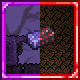
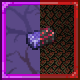
V3.1
v3.1
Pre-major update

-removed pickaxe axe crafting nerf
-heart of life placeholder sprite replaced with new sprite
and new tooltip
-added pickaxe axe to book of nerfs and book of nerfs melee
-tweaked mod icon
-added new tile corrupted anvil doesnt have any use currently until 1.3.6 (added to config to beta feature"DefaltBossOrbHeartSpawn")

diff --git a/NPCs/ItemsBuffsGlobalNPC.cs b/NPCs/ItemsBuffsGlobalNPC.cs
@@ -1,0 +1,30 @@
+using Microsoft.Xna.Framework;
+using Terraria;
+using Terraria.ID;
+using Terraria.ModLoader;
+
+namespace ItemsBuffs.NPCs
+{
+    public class ItemsBuffsGlobalNPC : GlobalNPC
+    {
+        public override void NPCLoot(NPC npc)
+        {
+         //   if (Main.rand.Next(10) == 0)
+            {
+                if (npc.type == NPCID.BrainofCthulhu & Config.DefaltBossOrbHeartSpawn)
+                {
+                    if (Main.rand.NextFloat() < 100.00f) // 50.00% chance
+                        Item.NewItem((int)npc.position.X, (int)npc.position.Y, npc.width, npc.height, mod.ItemType("CorruptedAnvil"), Main.rand.Next(1, 1));
+                }
+                if (npc.type == 13 & Config.DefaltBossOrbHeartSpawn)
+                {
+                    if (Main.rand.NextFloat() < 100.00f) // 50.00% chance
+                        Item.NewItem((int)npc.position.X, (int)npc.position.Y, npc.width, npc.height, mod.ItemType("CorruptedAnvil"), Main.rand.Next(1, 1));
+                    // Item.NewItem((int)npc.position.X, (int)npc.position.Y, npc.width, npc.height, (ItemID.TruffleWorm));
+                }
+            }
+        }
+    }
+}
+//   if (Main.rand.NextFloat() < 100.00f) // 50.00% chance
+//Item.NewItem(npc.getRect(), ItemID.TruffleWorm, 1);

diff --git a/Tiles/CorruptedAnvil.cs b/Tiles/CorruptedAnvil.cs
@@ -1,0 +1,40 @@
+using System;
+using Microsoft.Xna.Framework;
+using Microsoft.Xna.Framework.Graphics;
+using Terraria;
+using Terraria.ID;
+using Terraria.ModLoader;
+using Terraria.ObjectData;
+
+namespace ItemsBuffs.Tiles
+{
+	public class CorruptedAnvil : ModTile
+	{
+		public override void SetDefaults()
+		{
+			Main.tileFrameImportant[Type] = true;
+			Main.tileSolidTop[Type] = true;
+			Main.tileNoAttach[Type] = true;
+			Main.tileObsidianKill[Type] = true;
+			TileObjectData.newTile.CopyFrom(TileObjectData.Style2x1);
+			TileObjectData.newTile.DrawYOffset = 2;
+			TileObjectData.newTile.LavaDeath = false;
+			TileObjectData.addTile(Type);
+			dustType = 128;
+			adjTiles = new int[] { TileID.Anvils};
+			ModTranslation name = CreateMapEntryName();
+			name.SetDefault("Corrupted Anvil");
+			AddMapEntry(new Color(204, 0, 153), name);
+		}
+
+		public override void KillMultiTile(int i, int j, int frameX, int frameY)
+		{
+			Item.NewItem(i * 16, j * 16, 32, 16, mod.ItemType("CorruptedAnvil"));
+		}
+
+		public override void SetDrawPositions(int i, int j, ref int width, ref int offsetY, ref int height)
+		{
+			offsetY = 2;
+		}
+	}
+}

diff --git a/ItemsBuffs.cs b/ItemsBuffs.cs
@@ -73,6 +73,24 @@ namespace ItemsBuffs
             recipe.AddIngredient(null, "ThrowBook");
             recipe.SetResult(ItemType<Items.Books.AllNerfsList>());
             recipe.AddRecipe();
+
+            recipe = new ModRecipe(this);
+            recipe.AddIngredient(1225, 18);
+            recipe.AddTile(134);
+            recipe.SetResult(990, 1);
+            recipe.AddRecipe();
+
+            recipe = new ModRecipe(this);
+            recipe.AddIngredient(null, "HeartofLife", 15);
+            recipe.AddTile(null, "CorruptedAnvil");
+            recipe.SetResult(ItemID.WormFood, 1);
+            recipe.AddRecipe();
+
+            recipe = new ModRecipe(this);
+            recipe.AddIngredient(null, "HeartofLife", 15);
+            recipe.AddTile(null, "CorruptedAnvil");
+            recipe.SetResult(ItemID.BloodySpine, 1);
+            recipe.AddRecipe();
         }
     }
 }

diff --git a/Items/Books/AllNerfsList.cs b/Items/Books/AllNerfsList.cs
@@ -20,7 +20,7 @@ namespace ItemsBuffs.Items.Books
              "Golden Shower, Heat Ray, Hornet Staff, Chlorophyte Bulllet, Imp Staff, Iron Hammer\n" +
              "Leaf Blower,Magic Missile, Medusa Head, Molotow Cocktail\n" +
              "Molten Pickaxe, Muramasa, Nebula Arcanum, Nightmare Pickaxe, North Pole, Phantasm\n" +
-             "Phoenix Blaster, Poisoned Knife, Poison Staff, Possessed Hatchet\n" +
+             "Phoenix Blaster, Poisoned Knife,Pickaxe Axe, Poison Staff, Possessed Hatchet\n" +
              "Rainbow Rod, Rod of Discord, Razorpine, Reds Throw\n" +
              "Shadowbeam Staff, Slime Staff, Spectre Hood, Staff of Regrowth, Star Canon, Stardust Dragon staff, Sunfury\n" +
              "StarFury, Unholy Trident, Valkyrie Yoyo, Vampire Knifes, Vilethorn, Vortex Beater\n" +

diff --git a/Items/Placeable/CorruptedAnvil.cs b/Items/Placeable/CorruptedAnvil.cs
@@ -1,0 +1,36 @@
+using System;
+using Terraria;
+using Terraria.ID;
+using Terraria.ModLoader;
+
+namespace ItemsBuffs.Items.Placeable
+{
+	public class CorruptedAnvil : ModItem
+	{
+		public override void SetStaticDefaults()
+		{
+			Tooltip.SetDefault("Used to extract essence of Heart of life");
+		}
+
+		public override void SetDefaults()
+		{
+			item.width = 28;
+			item.height = 14;
+			item.maxStack = 999999999;
+			item.useTurn = true;
+			item.autoReuse = true;
+			item.useAnimation = 15;
+			item.useTime = 10;
+			item.useStyle = 1;
+			item.consumable = true;
+			item.rare = 11;
+			item.value = Item.sellPrice(0, 0, 0, 0);
+			item.createTile = mod.TileType("CorruptedAnvil");
+		}
+
+		public override void AddRecipes()
+		{
+
+		}
+	}
+}

diff --git a/Items/Tools/HeartofLife.cs b/Items/Tools/HeartofLife.cs
@@ -12,8 +12,7 @@ namespace ItemsBuffs.Items.Tools
 		public override void SetStaticDefaults()
 		{
             DisplayName.SetDefault("Heart of Life");
-            Tooltip.SetDefault("it pulse with depression and hope" +
-                "n/ currently dont have use until 1.3.6 will arrive");
+            Tooltip.SetDefault("no matter how it pulse, one day it will end");
            // Main.RegisterItemAnimation(item.type, new DrawAnimationVertical(5, 4));
       //      ItemID.Sets.AnimatesAsSoul[item.type] = true;
           ItemID.Sets.ItemIconPulse[item.type] = true;

diff --git a/Items/Books/SolarBook.cs b/Items/Books/SolarBook.cs
@@ -17,7 +17,7 @@ namespace ItemsBuffs.Items.Books
              "Copper Shortsword, Cuttlass, Flamarang\n" +
              "Iron Hammer\n" +
              "Molten Pickaxe, Muramasa, Nightmare Pickaxe, North Pole\n" +
-             "Possessed Hatchet\n" +
+             "Possessed Hatchet, Pickaxe Axe\n" +
              "Rainbow Rod, Rod of Discord, Reds Throw\n" +
              "Staff of Regrowth, Sunfury, StarFury\n" +
              "Valkyrie Yoyo, Vampire Knifes\n" +

diff --git a/Items/Tools/RodofDiscord.cs b/Items/Tools/RodofDiscord.cs
@@ -6,8 +6,6 @@ using Terraria;
 using Terraria.Localization;
 using Terraria.DataStructures;
 
-using Microsoft.Xna.Framework;
-
 namespace ItemsBuffs.Items.Tools
 {
     public class RodofDiscord : ModItem
